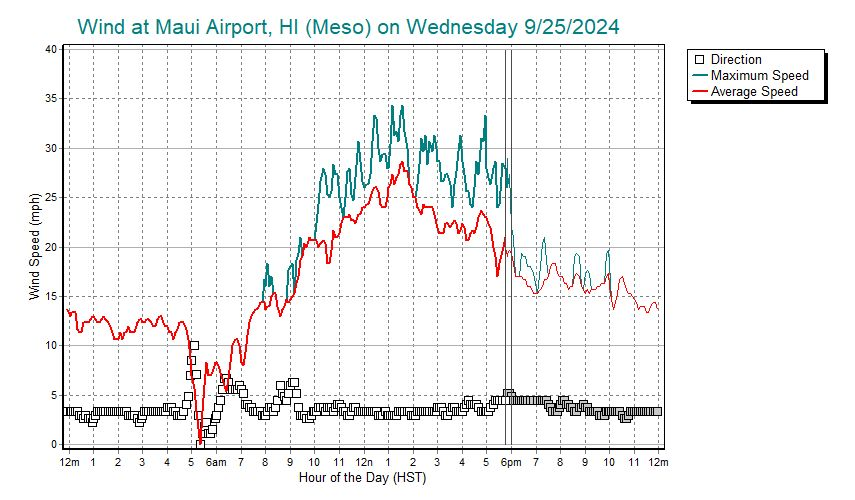
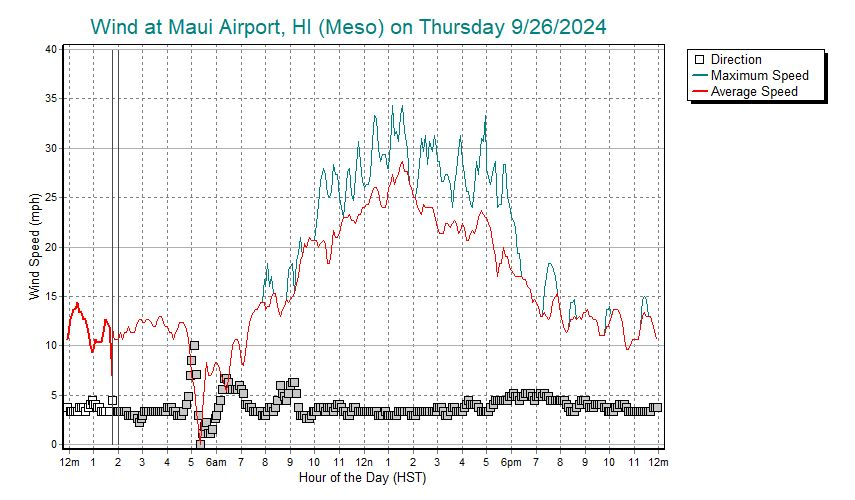
another update

diff --git a/charts.html b/charts.html
@@ -88,7 +88,7 @@
 	<p><b><font face="Arial" size="5">Samples from Rosy.asp</font></b></p>
    </div>
    <p><span>
-(24-hour charts updated Wednesday, September 25, 2024 at 11:00PM Central).
+(24-hour charts updated Thursday, September 26, 2024 at 07:00AM Central).
    </span></p>
    <p>The orginal ASP page is named Rosy, a nickname windsurfers from the Tri-Cities gave Roosevelt, a sailing site on the east end of the Columbia River gorge.</p>
 	<p>This first pair of sample charts, wind and temperature, is updated every 

diff --git a/charts_input.html b/charts_input.html
@@ -88,7 +88,7 @@
 	<p><b><font face="Arial" size="5">Samples from Rosy.asp</font></b></p>
    </div>
    <p><span>
-(24-hour charts updated Wednesday, September 25, 2024 at 11:00PM Central).
+(24-hour charts updated Thursday, September 26, 2024 at 07:00AM Central).
    </span></p>
    <p>The orginal ASP page is named Rosy, a nickname windsurfers from the Tri-Cities gave Roosevelt, a sailing site on the east end of the Columbia River gorge.</p>
 	<p>This first pair of sample charts, wind and temperature, is updated every 
